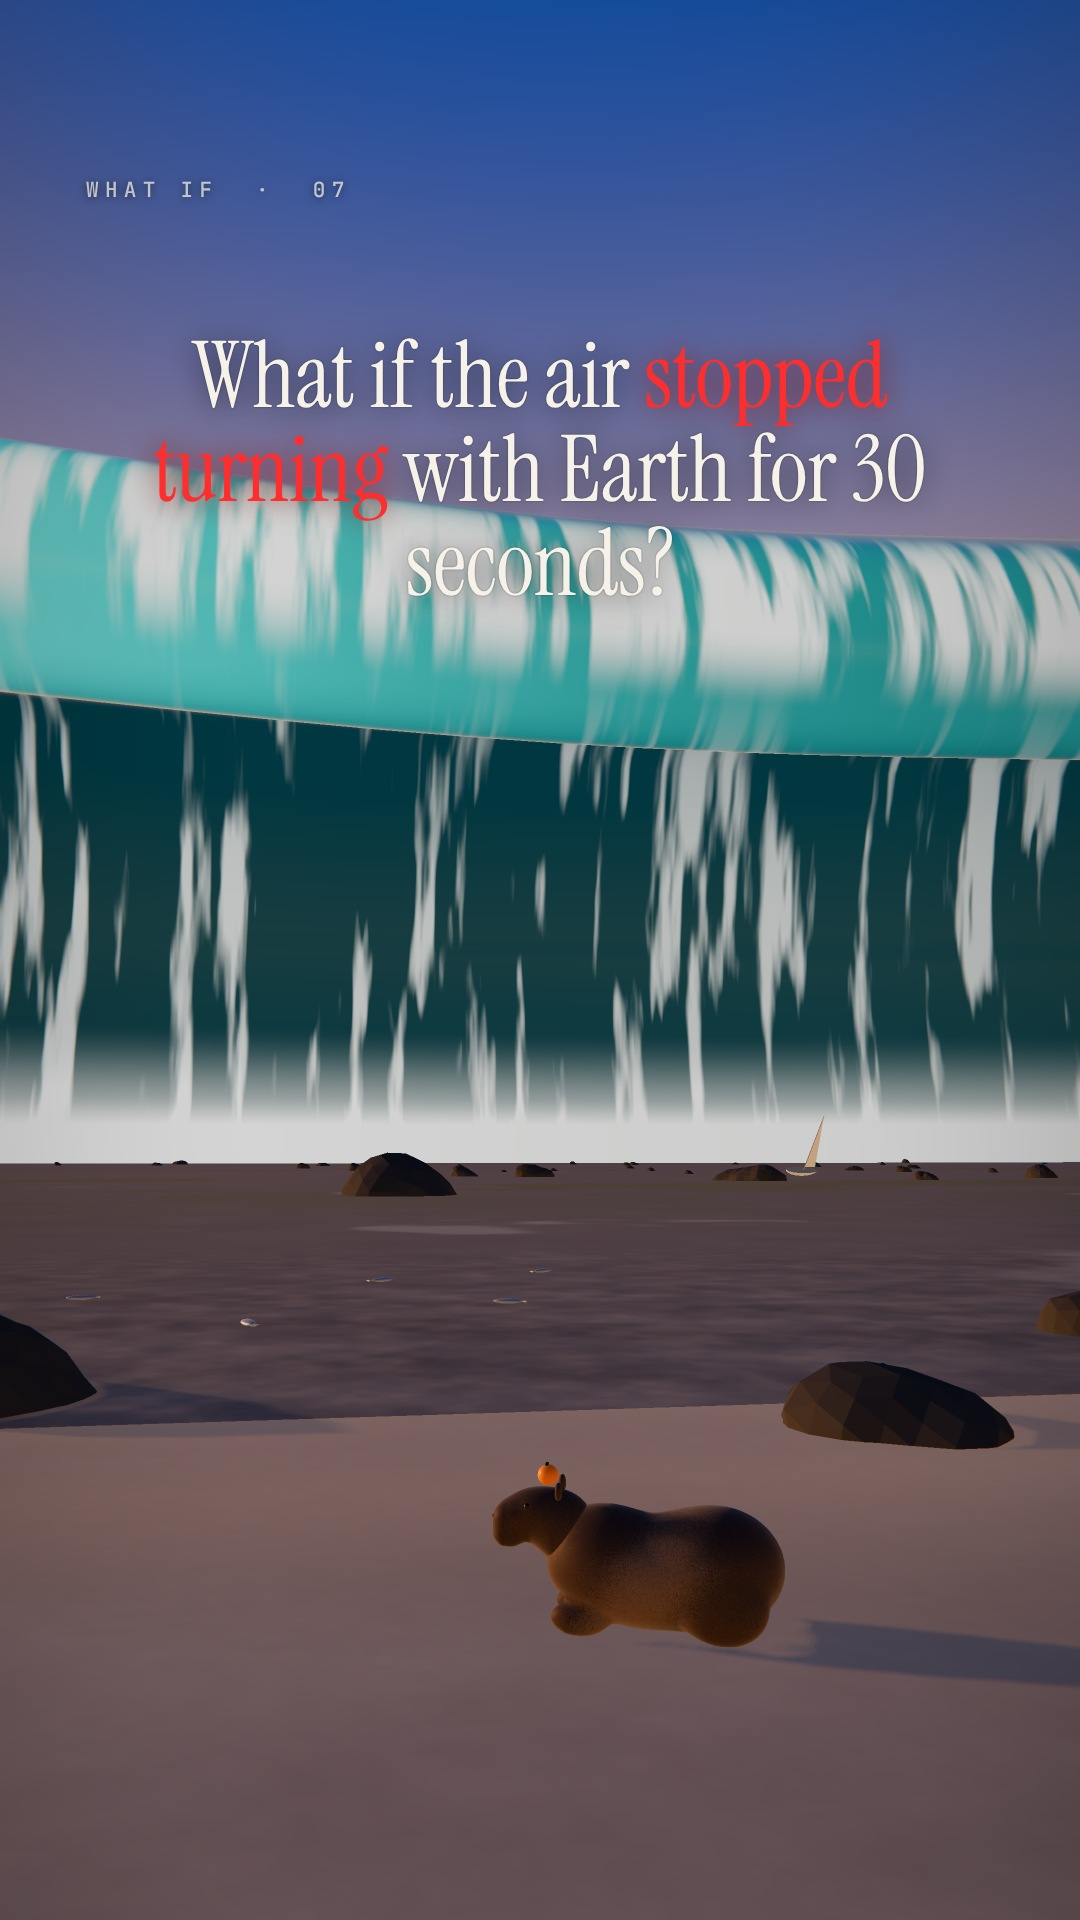
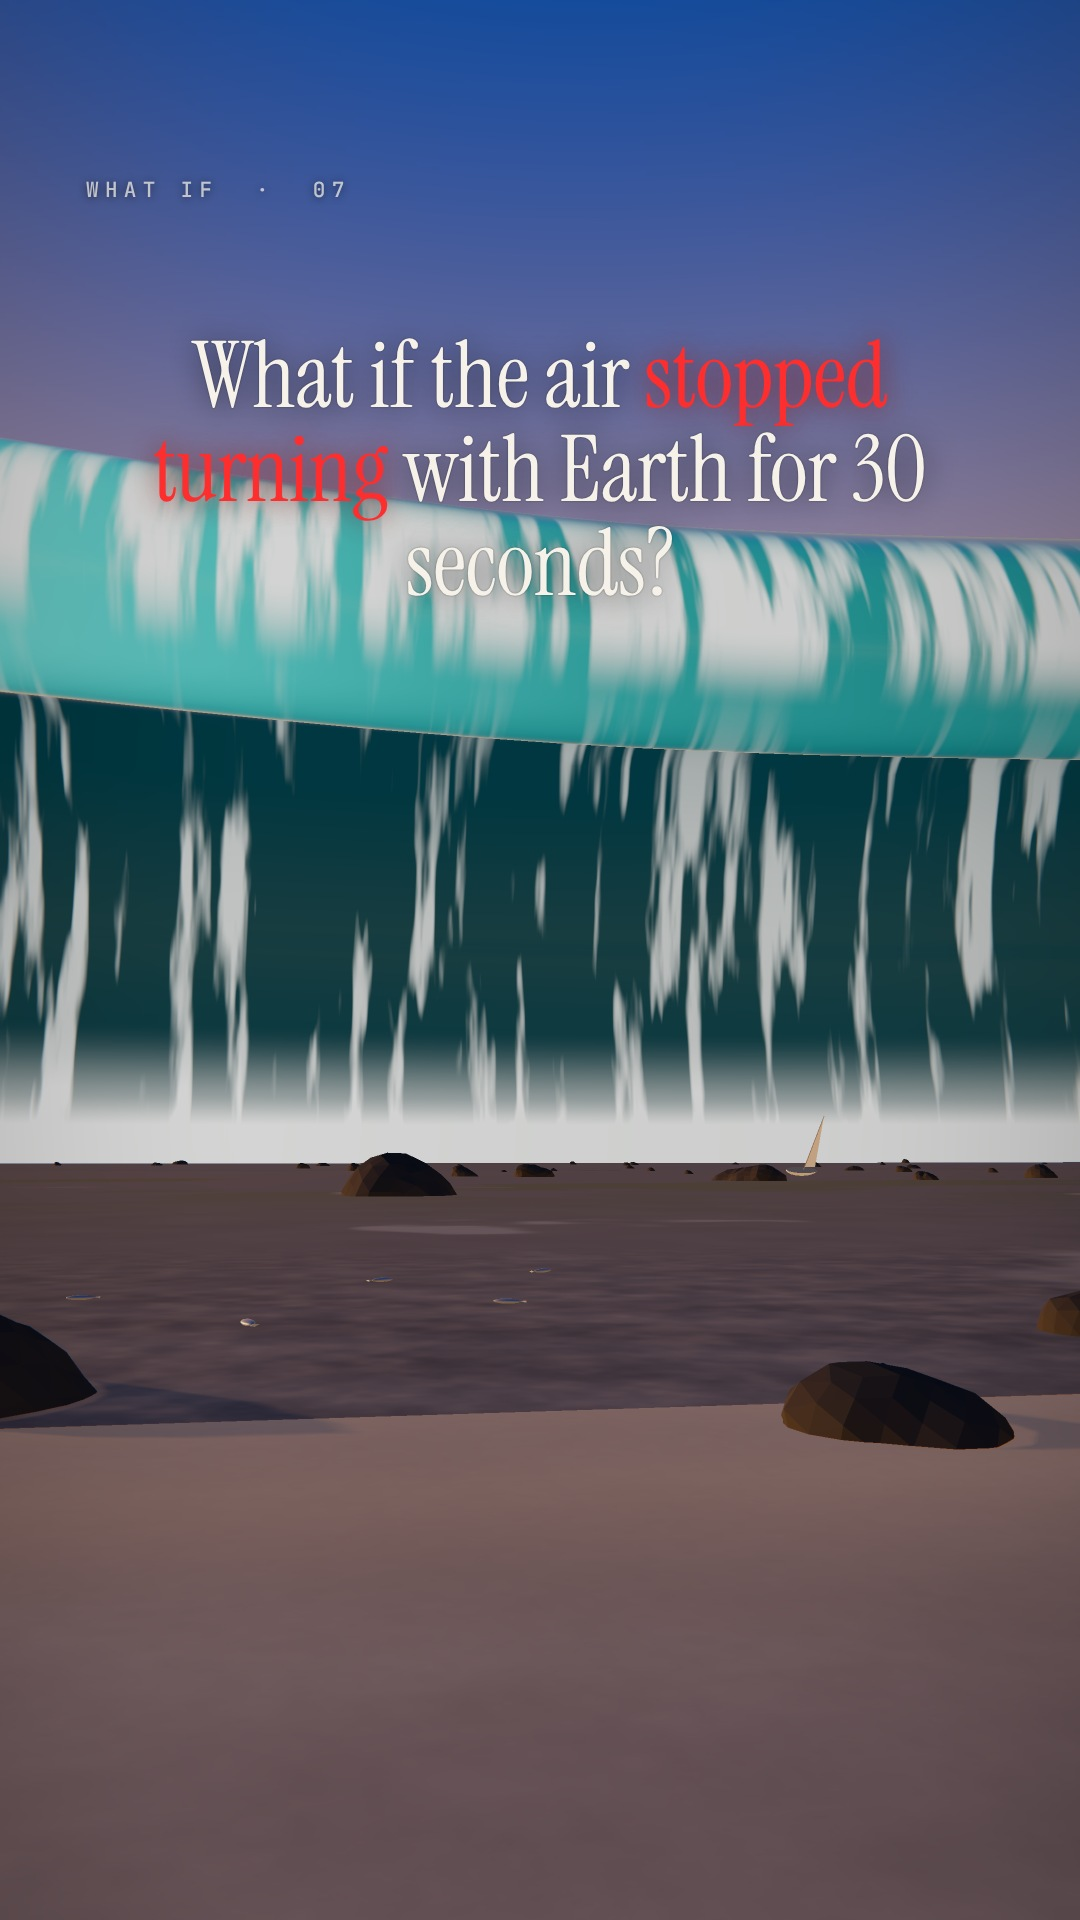
Post 7: only the flying capybara (the sitting one removed); the hook is the bridge twisting in slow motion; new cover
Claude-Session: https://claude.ai/code/session_01TJvMJWsAPrxLSZnHV8RjCX

Changed region(s): [[0.4583, 0.75, 0.7333, 0.875], [0.7333, 0.8438, 1.0, 0.875]]

diff --git a/studio/episodes/ep13.js b/studio/episodes/ep13.js
@@ -76,13 +76,12 @@ export async function create() {
   const fishAt = [[8, -31], [10.5, -27.5], [12, -33.5], [14.5, -29], [9.5, -35], [16, -26]];
   const kite = makeKite(); scene.add(kite);
   // ---- the capybara (rule 19's WTF) and Apple on a rock in the swash (calm part only) ----
-  const capy = makeCapybara(); capy.root.position.set(CAPY.x, groundY(CAPY.x, CAPY.z), CAPY.z); capy.root.rotation.y = 2.836; scene.add(capy.root);
   // the same capybara (orange and all) flying past in the storm, small and quick, five times: 0:01 (far, in the slow-motion
   // hook), 0:13, 0:21 (in front of the bridge), 0:28 and 0:38 (behind the one still sitting there). Each pass starts and
   // ends outside the frame and never comes closer than ~15 m.
   const flyer = makeCapybara(); flyer.root.visible = false; scene.add(flyer.root);
   const tmpC = new THREE.PerspectiveCamera(55, W / H, 0.05, 30000);
-  const PASSES = [[0.4, 3.4, 17.448, [55, 20, 12], 70, 2.6], [12.9, 14.0, 12.9, [34, -14, 9], 26, 5.5], [21.2, 22.0, 21.2, [36, 9.5, 4.5], 24, 6.0],
+  const PASSES = [[0.4, 3.4, 24.048, [55, 15, 6], 70, 2.6], [12.9, 14.0, 12.9, [34, -14, 9], 26, 5.5], [21.2, 22.0, 21.2, [36, 9.5, 4.5], 24, 6.0],
     [28.4, 29.3, 28.4, [55, 14, 11], 30, 5.0], [38.2, 39.6, 38.2, [40, 14, 7], 26, 5.5]].map(([t0, t1, s0, [f, rt, u], v, spin]) => {
     povCam(tmpC, t0); const fwd = new THREE.Vector3(); tmpC.getWorldDirection(fwd);
     const right = new THREE.Vector3().crossVectors(fwd, V(0, 1, 0)).normalize(), up = new THREE.Vector3().crossVectors(right, fwd).normalize();
@@ -192,7 +191,7 @@ export async function create() {
   }
 
   function frame(t) {
-    const story = t < T.HOOK ? 17.4 + t * 0.12 : t;              // the hook: slow motion in the blast
+    const story = t < T.HOOK ? 24.0 + t * 0.12 : t;              // the hook: slow motion, the bridge twisting in the blast
     const U = R.grade.uniforms;
     U.uTime.value = t; U.uFade.value = 0; U.uFadeWhite.value = 0; U.uScan.value = 0; U.uTint.value.set(1, 1, 1); U.uShake.value.set(0, 0);
     U.uSat.value = 1.05; U.uContrast.value = 1.05; U.uVignette.value = 0.32; U.uAberr.value = 0.0006; U.uGrain.value = 0;
@@ -251,7 +250,6 @@ export async function create() {
       fish.forEach((f, i) => { const [x, z] = fishAt[i], gy = groundY(x, z), show = S7.uLevel.value < gy - 0.05 && story < T.HIT;
         f.visible = show; const ud = f.userData, fl = Math.max(0, Math.sin(story * ud.f + ud.ph)) ** 3;
         f.position.set(x, gy + 0.04 + 0.12 * fl, z); f.rotation.set(0, ud.yaw, Math.PI / 2 - 0.4 * fl); });
-      capy.update(story, { blinkAt: [5.1, 9.2, 39.0, 43.5, 57.2], look: cam.position, lookK: smooth(57.6, 58.8, story), blow: wind ? V(BV.x, 0.15, BV.z).multiplyScalar(2.6) : V(0, 0, 0) });
       apple.update(t, { look: cam.position, blinkAt: [6.4], earAt: [7.6], pr: R.SSAA });
       const PS = PASSES.find((p) => t >= p.t0 && t < p.t1); flyer.root.visible = !!PS;
       if (PS) { const ds = story - PS.s0; flyer.root.position.copy(PS.p0).addScaledVector(PS.v, ds); flyer.root.rotation.set(ds * PS.spin * 0.7, ds * PS.spin, ds * PS.spin * 0.4);

diff --git a/studio/episodes/ep13cams.js b/studio/episodes/ep13cams.js
@@ -10,7 +10,7 @@ export const DUR = 68.0;
 export const LOG = new THREE.Vector3(-9.6, 0, -30.2), CAPY = new THREE.Vector3(-3.5, 0, -29.0), KNEEL = new THREE.Vector3(LOG.x + 0.52, 0, LOG.z - 0.4);
 const K = KNEEL;
 const SHOTS = [
-  { t0: 0, t1: T.HOOK, sway: 0.25, keys: [[0, K.x, 1.12, K.z, 70, -5, 62], [T.HOOK, K.x, 1.12, K.z, 71.5, -4.5, 62]] },
+  { t0: 0, t1: T.HOOK, sway: 0.25, keys: [[0, K.x, 1.12, K.z, 30, 3, 46], [T.HOOK, K.x, 1.12, K.z, 31, 3.2, 46]] },
   { t0: T.HOOK, t1: T.ZERO, sway: 0.18, walk: 1, keys: [[3.6, -6.6, 1.66, -41.0, 33, 2, 55], [6.0, -6.6, 1.66, -38.2, 33, 1.5, 55], [8.2, -6.55, 1.66, -35.6, 25, -9, 55], [11.0, -6.5, 1.66, -32.4, -2, -3, 55]] },
   { t0: T.ZERO, t1: T.BRIDGE, sway: 0.45, buffet: 1, keys: [[11, K.x, 1.12, K.z, -90, -6, 70], [17, K.x, 1.12, K.z, -87, -3, 70]] },
   { t0: T.BRIDGE, t1: T.SPACE, sway: 0.3, buffet: 0.7, keys: [[17, K.x, 1.12, K.z, 30, 2.5, 46], [31, K.x, 1.12, K.z, 33, 3.5, 46]] },

diff --git a/CLAUDE.md b/CLAUDE.md
@@ -109,7 +109,7 @@ often while at work, so every deliverable has to be ready to post straight from 
 | 4 | `studio/episodes/ep10.js` | Light becomes instant for 5 s (Paris, Champ de Mars → space → Holmdel 1964) | delivered v2 (75.0 s, tag 04): v1 replaced after the owner saw flicker and wanted it "hella impressive". New effects; SSAA 2, no grain, smooth camera moves, depth bias, no close-spark or smoke-card pops; flicker check clean except 18 s (0.61: star/ember parallax, checked by eye). Render ≈ 10 h in all with re-renders |
 | 5 | `studio/episodes/ep11.js` | Every radioactive atom decays at once (Guarapari black-sand beach → your body and banana → granite → continents → Goiânia 1987) | delivered 10 Oct (68 s, tag 05; first video with Apple and the hand-spinner WTF, rule 19). First render on the owner's PC: 4 min in all (the cloud box needed ~6 h). Covers: `videos/post5_cover.jpg` (burning city), `post5_cover_apple.jpg` |
 | 6 | `studio/episodes/ep12.js` | Every atom on Earth stops moving for 1 s (Times Square at blue hour → the frozen second → absolute zero, frost, snow → the sky falls → Earth turns white → Vostok 1983) | built 10 Oct (68 s, tag 06; WTF = a snowman in sunglasses next to you; Apple on the plaza in front of the steps at 8.6-10.6 s; first Follow-for-more end tag). Look approved by the owner ("fine as is"); rendered on the owner's PC via RENDER.bat. Cover `videos/post6_cover.jpg` |
-| 7 | `studio/episodes/ep13.js` | The air stops turning with Earth for 30 s (POV on Baker Beach, San Francisco → 1,320 km/h wind, the Golden Gate twists and breaks → space → "then the sea pulls back…" → the biggest tsunami) | built 15 Oct (68 s, tag 07; POV with hands by IK; WTF = the unbothered capybara with an orange on its head, which also flies past in the storm at 0:01, 0:13, 0:21, 0:28 and 0:38 (small, quick, for "why is there a capybara flying past at x:xx" comments); Apple on a rock in the swash, calm part). Rendered on the owner's PC. Cover `videos/post7_cover.jpg` |
+| 7 | `studio/episodes/ep13.js` | The air stops turning with Earth for 30 s (POV on Baker Beach, San Francisco → 1,320 km/h wind, the Golden Gate twists and breaks → space → "then the sea pulls back…" → the biggest tsunami) | built 15 Oct (68 s, tag 07; POV with hands by IK; WTF = a capybara with an orange on its head flying past in the storm at 0:01, 0:13, 0:21, 0:28 and 0:38, small and quick (owner: only the flying one, for "why is there a capybara flying past at x:xx" comments; the hook is the bridge twisting in slow motion); Apple on a rock in the swash, calm part). Rendered on the owner's PC. Cover `videos/post7_cover.jpg` |
 Cast log (rule 16): post 1 elevator = Michelle (dark skin, curly black hair, red headphones); post 2 plane =
 Michelle (same); post 3 whale = POV diver, black wetsuit and gloves (body never seen); post 4 light = Male_Adult_17
 (beard, black cap, blue-white hoodie; his friend Female_Adult_12, brunette with bangs, black hoodie); post 5 radioactive =
